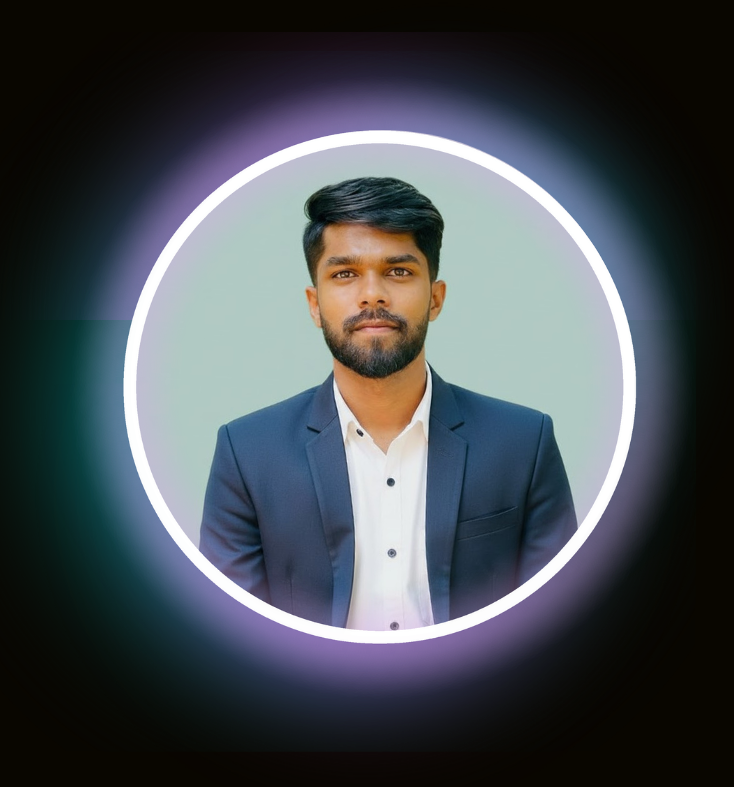
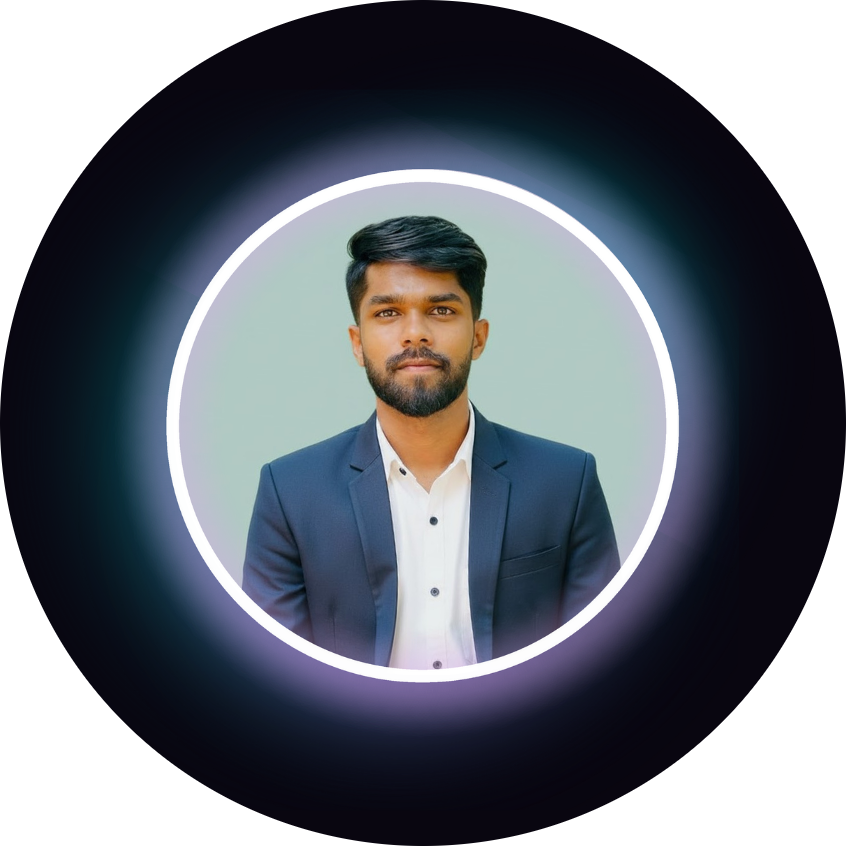
`Updated index.html, added new divs, and modified stylesheet.css with new styles and media queries`

diff --git a/stylesheet.css b/stylesheet.css
@@ -57,18 +57,26 @@ body
     border-bottom: 2px solid #0ef;
     padding-bottom: 2px;
 }
+
 .home
 {
     position: relative;
     width: 100;
+    display: grid;
+    grid-template-columns: repeat(2, 1fr);
     justify-content: space-between;
     height: 100vh;
-    background:url(photos/background_home.png)no-repeat;
-    background-size: cover;
-    background-position: center;
     display: flex;
     align-items: center;
     padding: 70px 10% 0;
+    gap: 1.5rem
+}
+.home-img img
+{
+    max-width: 800px;
+    height: auto;
+    width: 120%;
+    border-radius: 8px;
 }
 .home-content
 {
@@ -162,14 +170,16 @@ body
     display: grid;
     grid-template-columns: repeat(2, 1fr);
     align-items: center;
+    background-color: #090610;
     gap: 1.5rem;
 }
 .about-img img
 {
-    padding-bottom: 1%;
+    padding-bottom: 10%;
+    padding-top: 10%;
     max-width: 800px;
     height: auto;
-    width: 100%;
+    width: 120%;
     border-radius: 8px;
 }
 .about-text h2
@@ -547,5 +557,128 @@ section {
     100% {
         transform: translateY(0px);
         opacity: 1;
+    }
+}
+
+/* ====== Responsive for Tablets ======*/
+@media (max-width: 1024px) {
+    
+    .about {
+        grid-template-columns: 1fr; /* stack about section */
+        text-align: center;
+    }
+    .about-img img {
+        padding: 0;
+        max-width: 80%;
+        margin: 0 auto;
+    }
+    .home-content h1 {
+        font-size: 42px;
+    }
+    .home-content h3 {
+        font-size: 24px;
+    }
+    .container1 {
+        width: 90%;
+        padding: 50px 20px;
+        margin-left: 0;
+    }
+    .contact {
+        grid-template-columns: 1fr; /* stack contact section */
+        gap: 2rem;
+        padding-left: 0;
+    }
+    .main-text h2 {
+        font-size: 48px;
+    }
+    .main-text h3 {
+        font-size: 24px;
+        padding-top: 50px;
+        padding-left: 0;
+    }
+    .portfolio-content {
+        grid-template-columns: repeat(auto-fit, minmax(250px, 1fr));
+        gap: 15px;
+    }
+}
+
+/* ====== Responsive for Mobile Phones ====== */
+@media (max-width: 768px) {
+    .home-content h1 {
+        font-size: 32px;
+    }
+    .home-content h3 {
+        font-size: 20px;
+    }
+    .navbar a {
+        font-size: 18px;
+        margin-left: 15px;
+    }
+    .btn-box {
+        padding: 10px 20px;
+        font-size: 14px;
+    }
+    .sub-title {
+        font-size: 36px;
+        padding-bottom: 40px;
+    }
+    .about-text h2 {
+        font-size: 36px;
+    }
+    .about-text h4 {
+        font-size: 22px;
+    }
+    .Technical-bars .bar .info span {
+        font-size: 14px;
+    }
+    .radial-bar svg {
+        width: 100px;
+        height: 100px;
+    }
+    .radial-bar .percentage, .radial-bar .text {
+        font-size: 14px;
+    }
+}
+
+/* ====== Small Mobile Screens ====== */
+@media (max-width: 480px) {
+    .home-content h1 {
+        font-size: 26px;
+    }
+    .home-content h3 {
+        font-size: 18px;
+    }
+    .navbar a {
+        font-size: 16px;
+        margin-left: 10px;
+    }
+    .container1 {
+        padding: 30px 10px;
+        width: 100%;
+    }
+    .main-text h2 {
+        font-size: 32px;
+    }
+    .main-text h3 {
+        font-size: 18px;
+        padding-top: 30px;
+    }
+    .portfolio-content {
+        grid-template-columns: 1fr; /* one project per row */
+        gap: 10px;
+    }
+    .contact-text h2 {
+        font-size: 40px;
+    }
+    .contact-text h4 {
+        font-size: 18px;
+    }
+    .contact-form form input, .contact-form form textarea {
+        width: 100%;
+        font-size: 14px;
+    }
+    .contact-form form .send {
+        padding: 10px 30px;
+        font-size: 14px;
     }
 }

diff --git a/index.html b/index.html
@@ -35,6 +35,9 @@
             </div>
             <a href="#about" class="btn-box"><b>More About Me</b></a>
         </div>
+        <div class="home-img" id="home">
+           
+        </div>
         <span class="home-imgHover"></span>
     </section>
 
